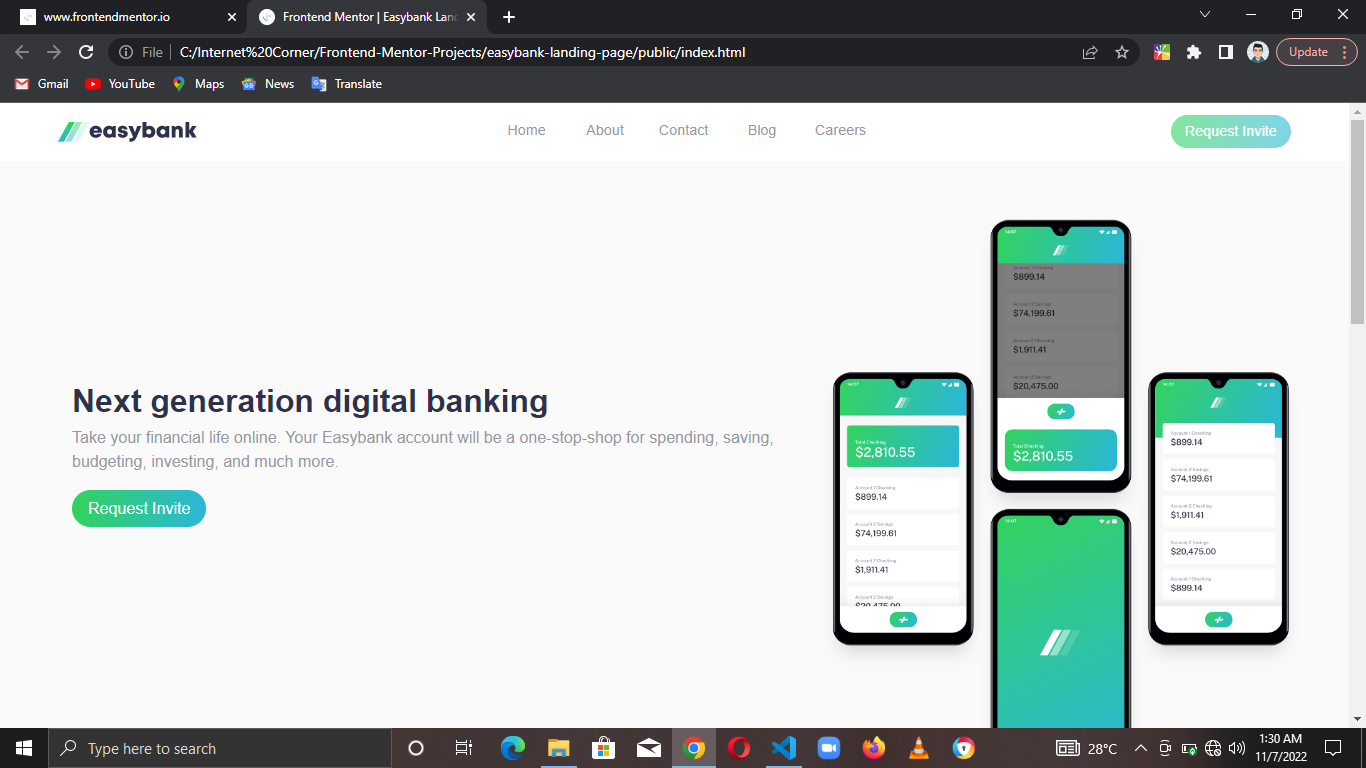
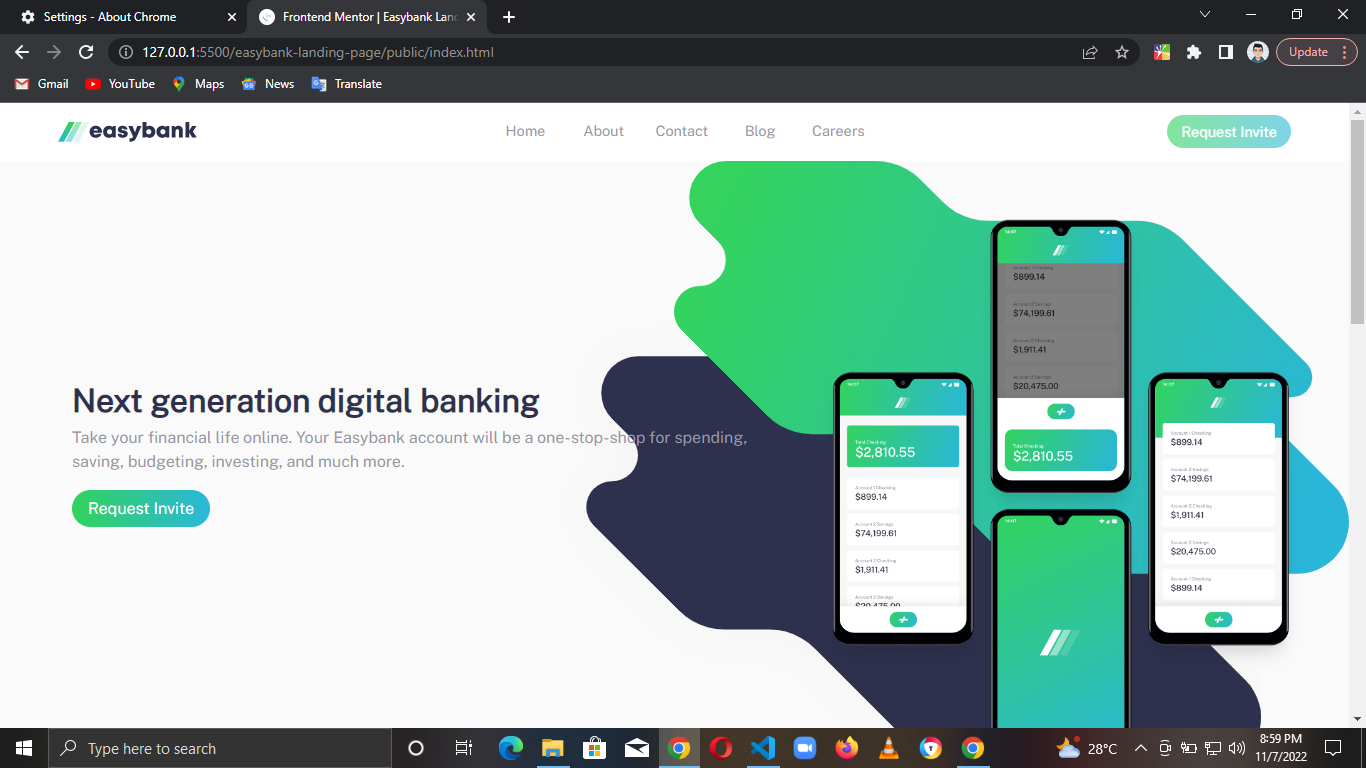
fix: fixed some issues with bg images

diff --git a/easybank-landing-page/public/css/styles.min.css b/easybank-landing-page/public/css/styles.min.css
@@ -1,1 +1,1 @@
-@font-face{font-family:"Public Sans";src:url("../../../public/assets/font/PublicSans-VariableFont_wght.ttf")}*,*::before,*::after{margin:0;padding:0;-webkit-box-sizing:border-box;box-sizing:border-box}body{line-height:1.5;-webkit-font-smoothing:antialiased}img,picture,video,canvas,svg{display:block;max-width:100%}input,button,textarea,select,a{font:inherit;color:inherit}p,h1,h2,h3,h4,h5,h6{overflow-wrap:break-word}ul[role=list],ol[role=list]{list-style:none}:root{--clr-primary-200: hsl(192deg, 70%, 51%);--clr-primary-300: hsl(136deg, 65%, 51%);--clr-primary-400: hsl(233deg, 26%, 24%);--clr-primary-500: hsla(233deg, 26%, 24%, 0.589);--clr-neutral-100: hsl(0deg, 0%, 100%);--clr-neutral-200: hsl(0deg, 0%, 98%);--clr-neutral-300: hsl(220deg, 16%, 96%);--clr-neutral-400: hsl(233deg, 8%, 62%);--bg: var(--clr-neutral-100);--text: var(--clr-neutral-400);--heading: var(--clr-primary-400);--gradient: linear-gradient(to right, hsl(136deg, 65%, 51%), hsl(192deg, 70%, 51%))}main>*:nth-child(1),main>*:nth-child(2),main>*:nth-child(3){--bg: var(--clr-neutral-200);background-color:var(--bg)}.footer,.footer__images,.footer__socials,.footer__credits,.intro__row,.choice__row,.articles__row,.header,.header__nav ul{display:-webkit-box;display:-ms-flexbox;display:flex;-webkit-box-pack:justify;-ms-flex-pack:justify;justify-content:space-between;-webkit-box-align:start;-ms-flex-align:start;align-items:flex-start;gap:1em}.intro__content>*:not(:last-child),.choice>*:not(:last-child),.choice__column>*:not(:last-child),.articles>*:not(:last-child),.articles__card>*:not(:last-child),.articles__container>*:not(:last-child){--flow: 1em;-webkit-margin-after:var(--flow);margin-block-end:var(--flow)}body{color:var(--text);background:var(--bg);font-family:"Public Sans",sans-serif;font-weight:400}h1,h2,h3{color:var(--heading);font-weight:700;line-height:1.2}.header{font-size:.9rem}h1{font-size:2rem}h4{font-size:.8rem}.header__menu,.footer__btn,.intro__content button,.header__btn{background:rgba(0,0,0,0);border:none;cursor:pointer}.footer__btn,.intro__content button,.header__btn{background:var(--gradient);color:var(--clr-neutral-100);border-radius:100vmax;padding:.4em 1em}.footer__btn:hover,.intro__content button:hover,.header__btn:hover,.footer__btn:focus-visible,.intro__content button:focus-visible,.header__btn:focus-visible{opacity:.6}.header{-webkit-box-align:center;-ms-flex-align:center;align-items:center;padding-inline:4em;background-color:var(--background)}.header>a{min-width:-webkit-max-content;min-width:-moz-max-content;min-width:max-content}.header__nav{-webkit-box-flex:.4;-ms-flex:.4;flex:.4}.header__nav ul li{-webkit-box-flex:1;-ms-flex:1;flex:1;text-align:center}.header__nav ul li::after{content:"";display:block;width:0;margin-inline:auto;height:.1em;background:var(--clr-primary-300)}@media screen and (prefers-reduced-motion: no-preference){.header__nav ul li::after{-webkit-transition:width .4s;transition:width .4s}}.header__nav ul li:hover::after,.header__nav ul li:has(a:focus-visible)::after{width:100%}.header__nav ul li a{text-decoration:none;display:block;padding-block:1.2em}.header__nav ul li a:hover,.header__nav ul li a:focus-visible{color:var(--clr-primary-400)}.header__menu{display:none}@media screen and (max-width: 50em){.header{padding:1em 2em}.header:has(.open)::after{content:"";position:fixed;inset:0;background:-webkit-gradient(linear, left top, left bottom, color-stop(80%, var(--clr-primary-500)), to(transparent));background:linear-gradient(var(--clr-primary-500) 80%, transparent)}.header__nav{position:fixed;inset:5em 0;display:none}.header__nav.open{display:block;z-index:1}.header__nav ul{-webkit-box-orient:vertical;-webkit-box-direction:normal;-ms-flex-direction:column;flex-direction:column;-webkit-box-align:center;-ms-flex-align:center;align-items:center;background:var(--clr-neutral-100);border-radius:1em;width:90%;margin-inline:auto;padding-block:1em;gap:0}.header__btn{display:none}.header__menu{display:block;z-index:2}.header__menu img:nth-child(2){display:none}.header__menu.open img:nth-child(1){display:none}.header__menu.open img:nth-child(2){display:block}}main>*:nth-child(2){padding:4em 4.5em}main>*:nth-child(3){padding:4em 4.5em}.intro{min-height:calc(100vh - 4em) !important;background-image:url("../../../public/assets/images/bg-intro-desktop.svg") !important;background-position:top right;background-size:60%;background-repeat:no-repeat}.intro__row{padding-inline:4.5em;-webkit-box-align:center;-ms-flex-align:center;align-items:center}.intro__row img{width:min(30em,50vw);-webkit-transform:translate(5%, 10%);transform:translate(5%, 10%)}.intro__content h1{--flow: 0.2em !important}@media screen and (max-width: 50em){.intro{overflow:hidden;background-image:url("../../../public/assets/images/bg-intro-mobile.svg") !important;background-size:100% 75%;background-repeat:no-repeat;text-align:center}.intro__row{-webkit-box-orient:vertical;-webkit-box-direction:reverse;-ms-flex-direction:column-reverse;flex-direction:column-reverse;padding-inline:2em;-webkit-box-align:end;-ms-flex-align:end;align-items:flex-end}.intro__row img{width:28em;-webkit-transform:translate(0%, -10%);transform:translate(0%, -10%);margin-inline:auto}.intro__content{-webkit-transform:translateY(-15%);transform:translateY(-15%)}}.choice{--bg: var(--clr-neutral-300) !important}.choice>*{--flow: 0.5em !important}.choice__column{-webkit-margin-before:1em;margin-block-start:1em}.choice__column>*{--flow: 0.8em !important}.choice__column img{width:3.5em}@media screen and (max-width: 50em){.choice{text-align:center}.choice__row{-webkit-box-orient:vertical;-webkit-box-direction:normal;-ms-flex-direction:column;flex-direction:column}.choice__row img{margin-inline:auto}}.articles>*{--flow: 0.8em !important}.articles__card{background:var(--clr-neutral-100)}.articles__card>*{--flow: 0.5em !important}.articles__card img{aspect-ratio:1.75}.articles__container{padding:1rem}.articles__container>*{--flow: 0.5em !important}@media screen and (max-width: 50em){.articles h2{text-align:center}.articles__row{-webkit-box-orient:vertical;-webkit-box-direction:normal;-ms-flex-direction:column;flex-direction:column;gap:2em}}.footer{background:var(--clr-primary-400);padding:3rem 4.5rem;-webkit-box-align:stretch;-ms-flex-align:stretch;align-items:stretch}.footer__images{-webkit-box-orient:vertical;-webkit-box-direction:normal;-ms-flex-direction:column;flex-direction:column}.footer__socials{list-style:none}.footer__nav ul{color:var(--clr-neutral-100);-webkit-columns:2 12vw;-moz-columns:2 12vw;columns:2 12vw;font-size:.85rem}.footer__nav ul li:not(:last-child,:nth-child(3)){-webkit-padding-after:1em;padding-block-end:1em}.footer__nav ul li a{text-decoration:none}.footer__nav ul li a:hover,.footer__nav ul li a:focus-visible{color:var(--clr-primary-300)}.footer__credits{-webkit-box-orient:vertical;-webkit-box-direction:normal;-ms-flex-direction:column;flex-direction:column;-webkit-box-align:end;-ms-flex-align:end;align-items:flex-end;-webkit-box-pack:start;-ms-flex-pack:start;justify-content:flex-start;gap:1.5em}.footer__credits p{font-size:.85rem}.footer__btn{padding-inline:1.5em;text-align:center}@media screen and (max-width: 50em){.footer{-webkit-box-orient:vertical;-webkit-box-direction:normal;-ms-flex-direction:column;flex-direction:column;-webkit-box-align:center;-ms-flex-align:center;align-items:center;gap:1.8em}.footer__images{gap:2em;-webkit-box-align:center;-ms-flex-align:center;align-items:center}.footer__nav ul{-webkit-columns:1;-moz-columns:1;columns:1;font-size:1rem;text-align:center}.footer__nav ul li:not(:last-child){-webkit-padding-after:1em;padding-block-end:1em}.footer__credits{-webkit-box-align:center;-ms-flex-align:center;align-items:center}}
+@font-face{font-family:"Public Sans";src:url("../../public/assets/font/PublicSans-VariableFont_wght.ttf")}*,*::before,*::after{margin:0;padding:0;-webkit-box-sizing:border-box;box-sizing:border-box}body{line-height:1.5;-webkit-font-smoothing:antialiased}img,picture,video,canvas,svg{display:block;max-width:100%}input,button,textarea,select,a{font:inherit;color:inherit}p,h1,h2,h3,h4,h5,h6{overflow-wrap:break-word}ul[role=list],ol[role=list]{list-style:none}:root{--clr-primary-200: hsl(192deg, 70%, 51%);--clr-primary-300: hsl(136deg, 65%, 51%);--clr-primary-400: hsl(233deg, 26%, 24%);--clr-primary-500: hsla(233deg, 26%, 24%, 0.589);--clr-neutral-100: hsl(0deg, 0%, 100%);--clr-neutral-200: hsl(0deg, 0%, 98%);--clr-neutral-300: hsl(220deg, 16%, 96%);--clr-neutral-400: hsl(233deg, 8%, 62%);--bg: var(--clr-neutral-100);--text: var(--clr-neutral-400);--heading: var(--clr-primary-400);--gradient: linear-gradient(to right, hsl(136deg, 65%, 51%), hsl(192deg, 70%, 51%))}main>*:nth-child(1),main>*:nth-child(2),main>*:nth-child(3){--bg: var(--clr-neutral-200);background-color:var(--bg)}.footer,.footer__images,.footer__socials,.footer__credits,.intro__row,.choice__row,.articles__row,.header,.header__nav ul{display:-webkit-box;display:-ms-flexbox;display:flex;-webkit-box-pack:justify;-ms-flex-pack:justify;justify-content:space-between;-webkit-box-align:start;-ms-flex-align:start;align-items:flex-start;gap:1em}.intro__content>*:not(:last-child),.choice>*:not(:last-child),.choice__column>*:not(:last-child),.articles>*:not(:last-child),.articles__card>*:not(:last-child),.articles__container>*:not(:last-child){--flow: 1em;-webkit-margin-after:var(--flow);margin-block-end:var(--flow)}body{color:var(--text);background:var(--bg);font-family:"Public Sans",sans-serif;font-weight:400}h1,h2,h3{color:var(--heading);font-weight:700;line-height:1.2}.header{font-size:.9rem}h1{font-size:2rem}h4{font-size:.8rem}.header__menu,.footer__btn,.intro__content button,.header__btn{background:rgba(0,0,0,0);border:none;cursor:pointer}.footer__btn,.intro__content button,.header__btn{background:var(--gradient);color:var(--clr-neutral-100);border-radius:100vmax;padding:.4em 1em}.footer__btn:hover,.intro__content button:hover,.header__btn:hover,.footer__btn:focus-visible,.intro__content button:focus-visible,.header__btn:focus-visible{opacity:.6}.header{-webkit-box-align:center;-ms-flex-align:center;align-items:center;padding-inline:4em;background-color:var(--background)}.header>a{min-width:-webkit-max-content;min-width:-moz-max-content;min-width:max-content}.header__nav{-webkit-box-flex:.4;-ms-flex:.4;flex:.4}.header__nav ul li{-webkit-box-flex:1;-ms-flex:1;flex:1;text-align:center}.header__nav ul li::after{content:"";display:block;width:0;margin-inline:auto;height:.1em;background:var(--clr-primary-300)}@media screen and (prefers-reduced-motion: no-preference){.header__nav ul li::after{-webkit-transition:width .4s;transition:width .4s}}.header__nav ul li:hover::after,.header__nav ul li:has(a:focus-visible)::after{width:100%}.header__nav ul li a{text-decoration:none;display:block;padding-block:1.2em}.header__nav ul li a:hover,.header__nav ul li a:focus-visible{color:var(--clr-primary-400)}.header__menu{display:none}@media screen and (max-width: 50em){.header{padding:1em 2em}.header:has(.open)::after{content:"";position:fixed;inset:0;background:-webkit-gradient(linear, left top, left bottom, color-stop(80%, var(--clr-primary-500)), to(transparent));background:linear-gradient(var(--clr-primary-500) 80%, transparent)}.header__nav{position:fixed;inset:5em 0;display:none}.header__nav.open{display:block;z-index:1}.header__nav ul{-webkit-box-orient:vertical;-webkit-box-direction:normal;-ms-flex-direction:column;flex-direction:column;-webkit-box-align:center;-ms-flex-align:center;align-items:center;background:var(--clr-neutral-100);border-radius:1em;width:90%;margin-inline:auto;padding-block:1em;gap:0}.header__btn{display:none}.header__menu{display:block;z-index:2}.header__menu img:nth-child(2){display:none}.header__menu.open img:nth-child(1){display:none}.header__menu.open img:nth-child(2){display:block}}main>*:nth-child(2){padding:4em 4.5em}main>*:nth-child(3){padding:4em 4.5em}.intro{min-height:calc(100vh - 4em) !important;background-image:url("../../public/assets/images/bg-intro-desktop.svg") !important;background-position:top right;background-size:60%;background-repeat:no-repeat}.intro__row{padding-inline:4.5em;-webkit-box-align:center;-ms-flex-align:center;align-items:center}.intro__row img{width:min(30em,50vw);-webkit-transform:translate(5%, 10%);transform:translate(5%, 10%)}.intro__content h1{--flow: 0.2em !important}@media screen and (max-width: 50em){.intro{overflow:hidden;background-image:url("../../public/assets/images/bg-intro-mobile.svg") !important;background-size:100% 75%;background-repeat:no-repeat;text-align:center}.intro__row{-webkit-box-orient:vertical;-webkit-box-direction:reverse;-ms-flex-direction:column-reverse;flex-direction:column-reverse;padding-inline:2em;-webkit-box-align:end;-ms-flex-align:end;align-items:flex-end}.intro__row img{width:28em;-webkit-transform:translate(0%, -10%);transform:translate(0%, -10%);margin-inline:auto}.intro__content{-webkit-transform:translateY(-15%);transform:translateY(-15%)}}.choice{--bg: var(--clr-neutral-300) !important}.choice>*{--flow: 0.5em !important}.choice__column{-webkit-margin-before:1em;margin-block-start:1em}.choice__column>*{--flow: 0.8em !important}.choice__column img{width:3.5em}@media screen and (max-width: 50em){.choice{text-align:center}.choice__row{-webkit-box-orient:vertical;-webkit-box-direction:normal;-ms-flex-direction:column;flex-direction:column}.choice__row img{margin-inline:auto}}.articles>*{--flow: 0.8em !important}.articles__card{background:var(--clr-neutral-100)}.articles__card>*{--flow: 0.5em !important}.articles__card img{aspect-ratio:1.75}.articles__container{padding:1rem}.articles__container>*{--flow: 0.5em !important}@media screen and (max-width: 50em){.articles h2{text-align:center}.articles__row{-webkit-box-orient:vertical;-webkit-box-direction:normal;-ms-flex-direction:column;flex-direction:column;gap:2em}}.footer{background:var(--clr-primary-400);padding:3rem 4.5rem;-webkit-box-align:stretch;-ms-flex-align:stretch;align-items:stretch}.footer__images{-webkit-box-orient:vertical;-webkit-box-direction:normal;-ms-flex-direction:column;flex-direction:column}.footer__socials{list-style:none}.footer__nav ul{color:var(--clr-neutral-100);-webkit-columns:2 12vw;-moz-columns:2 12vw;columns:2 12vw;font-size:.85rem}.footer__nav ul li:not(:last-child,:nth-child(3)){-webkit-padding-after:1em;padding-block-end:1em}.footer__nav ul li a{text-decoration:none}.footer__nav ul li a:hover,.footer__nav ul li a:focus-visible{color:var(--clr-primary-300)}.footer__credits{-webkit-box-orient:vertical;-webkit-box-direction:normal;-ms-flex-direction:column;flex-direction:column;-webkit-box-align:end;-ms-flex-align:end;align-items:flex-end;-webkit-box-pack:start;-ms-flex-pack:start;justify-content:flex-start;gap:1.5em}.footer__credits p{font-size:.85rem}.footer__btn{padding-inline:1.5em;text-align:center}@media screen and (max-width: 50em){.footer{-webkit-box-orient:vertical;-webkit-box-direction:normal;-ms-flex-direction:column;flex-direction:column;-webkit-box-align:center;-ms-flex-align:center;align-items:center;gap:1.8em}.footer__images{gap:2em;-webkit-box-align:center;-ms-flex-align:center;align-items:center}.footer__nav ul{-webkit-columns:1;-moz-columns:1;columns:1;font-size:1rem;text-align:center}.footer__nav ul li:not(:last-child){-webkit-padding-after:1em;padding-block-end:1em}.footer__credits{-webkit-box-align:center;-ms-flex-align:center;align-items:center}}

diff --git a/easybank-landing-page/build/scss/components/_main.scss b/easybank-landing-page/build/scss/components/_main.scss
@@ -14,7 +14,7 @@
 
 .intro {
   min-height: calc(100vh - 4em) !important;
-  background-image: url("../../../public/assets/images/bg-intro-desktop.svg") !important;
+  background-image: url("../../public/assets/images/bg-intro-desktop.svg") !important;
   background-position: top right;
   background-size: 60%;
   background-repeat: no-repeat;
@@ -45,7 +45,7 @@
 
   @include max(medium) {
     overflow: hidden;
-    background-image: url("../../../public/assets/images/bg-intro-mobile.svg") !important;
+    background-image: url("../../public/assets/images/bg-intro-mobile.svg") !important;
     background-size: 100% 75%;
     background-repeat: no-repeat;
     text-align: center;

diff --git a/easybank-landing-page/build/scss/base/_fonts.scss b/easybank-landing-page/build/scss/base/_fonts.scss
@@ -1,5 +1,5 @@
 //@font-face declarations if any
 @font-face {
   font-family: "Public Sans";
-  src: url("../../../public/assets/font/PublicSans-VariableFont_wght.ttf");
+  src: url("../../public/assets/font/PublicSans-VariableFont_wght.ttf");
 }
